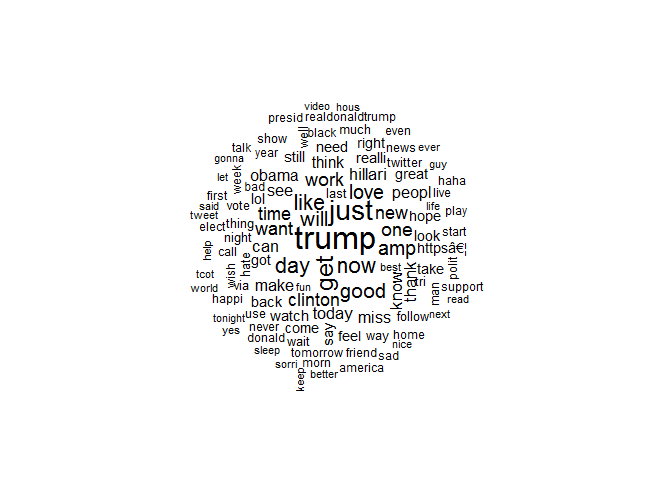
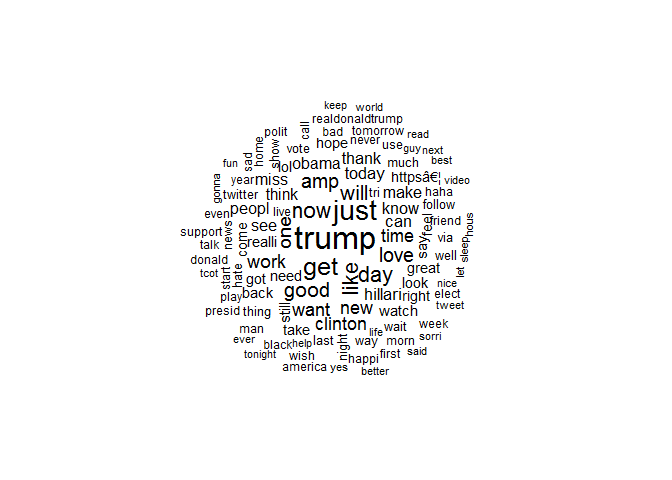
logit regr fixed

Changed region(s): [[0.25, 0.1875, 0.7188, 0.8125]]

diff --git a/russian_trolls.md b/russian_trolls.md
@@ -1,9 +1,11 @@
 Russian Twitter Trolls
 ================
 
-Context As part of the House Intelligence Committee investigation into how Russia may have influenced the 2016 US Election, Twitter released the screen names of almost 3000 Twitter accounts believed to be connected to Russia’s Internet Research Agency, a company known for operating social media troll accounts. Twitter immediately suspended these accounts, deleting their data from Twitter.com and the Twitter API. A team at NBC News including Ben Popken and EJ Fox was able to reconstruct a dataset consisting of a subset of the deleted data for their investigation and were able to show how these troll accounts went on attack during key election moments. This dataset is the body of this open-sourced reconstruction.
+Context
 
-For more background, read the NBC news article publicizing the release: "Twitter deleted 200,000 Russian troll tweets. Read them here."
+As part of the House Intelligence Committee investigation into how Russia may have influenced the 2016 US Election, Twitter released the screen names of almost 3000 Twitter accounts believed to be connected to Russia’s Internet Research Agency, a company known for operating social media troll accounts. Twitter immediately suspended these accounts, deleting their data from Twitter.com and the Twitter API. A team at NBC News including Ben Popken and EJ Fox was able to reconstruct a dataset consisting of a subset of the deleted data for their investigation and were able to show how these troll accounts went on attack during key election moments. This dataset is the body of this open-sourced reconstruction.
+
+For more background, read the NBC news article publicizing the release: "Twitter deleted 200,000 Russian troll tweets. Read them here."[NBC Russian Tweets](https://www.nbcnews.com/tech/social-media/now-available-more-200-000-deleted-russian-troll-tweets-n844731)
 
 Content This dataset contains two CSV files. tweets.csv includes details on individual tweets, while users.csv includes details on individual accounts.
 
@@ -15,7 +17,7 @@ Acknowledgements If you publish using the data, please credit NBC News and inclu
 
 THIS Project
 
-In this Document, the russian troll data set and a sentiment data set that was pre 2014 was used for analysis. The Russian troll accounts were from September 2014 until September 2017. So I found tweets that were produced from April to May 2009. Therefore, camparisons of troll and non-troll data could be made.
+In this mark down, the russian troll data set and a sentiment data set that was pre 2014 was used for analysis. The Russian troll accounts were from September 2014 until September 2017. So I found tweets that were produced from April to May 2009. Therefore, camparisons of troll and non-troll data could be made.
 
 ``` r
 library(ROCR)
@@ -139,7 +141,7 @@ library(effects) # regession models
 #save(nt,file= "savednt.RData")
 ```
 
-Because the CSV files were so large, two Rdata files were created: savedrt.Rdata for the russian trolls and savednt.RData for accounts that are not troll. This helped with a shorter run time and committing to Github.
+Because the CSV files were so large, two Rdata files were created. This helped with a shorter run time and committing to Github.
 
 ``` r
 load("savednt.RData")
@@ -152,28 +154,22 @@ text<- as.character(rt$text)
 colnames(nt)[6]<- as.character(c("text"))
 colnames(nt)[3]<- "created_str"
 
+#extracting columns
+rtext<-select(rt,"text")
+ntext<-select(nt,"text")
+
+
 #adding a column Russian tweets
-rt$r_nr<-"r"
+rtext$r_nr<-"r"
 
 #adding column to non_russian tweets
-nt$r_nr<-"nr"
+ntext$r_nr<-"nr"
 ```
 
 ``` r
-#combining data sets
+#combining data sets, sample function randomizes order of rows
 
-tot_tweets<- full_join(nt,rt)
-```
-
-    ## Joining, by = c("created_str", "text", "r_nr")
-
-    ## Warning: Column `created_str` joining factors with different levels,
-    ## coercing to character vector
-
-    ## Warning: Column `text` joining factors with different levels, coercing to
-    ## character vector
-
-``` r
+tot_tweets<- rbind(ntext,rtext,stringAsfactors=FALSE)
 tot_tweets <- tot_tweets[sample(nrow(tot_tweets)),]
 
 #change character to factor
@@ -186,7 +182,7 @@ print(text_corpus)
 
     ## <<VCorpus>>
     ## Metadata:  corpus specific: 0, document level (indexed): 0
-    ## Content:  documents: 12000
+    ## Content:  documents: 12001
 
 ``` r
 #cleaning tweets 
@@ -212,11 +208,11 @@ We separate the data into a training set and a test set. Then create the labels 
 
 ``` r
 text_dtm_train<- text_dtm[1:10000,]
-text_dtm_test<- text_dtm[10000:12000,]
+text_dtm_test<- text_dtm[10001:12000,]
 
 
 text_train_labels<- tot_tweets[1:10000,]$r_nr
-text_test_labels<- tot_tweets[10000:12000,]$r_nr
+text_test_labels<- tot_tweets[10001:12000,]$r_nr
 ```
 
 We can now create three word clouds. The first wordcloud shows all of the data together. The second cloud show just the russian troll texts. The third is no Russian trolls at all.
@@ -264,7 +260,7 @@ tweet_freq_words <- findFreqTerms(text_dtm_train, 5)
  str(tweet_freq_words)
 ```
 
-    ##  chr [1:2620] "â" "â–¶" "â€¦" "â€˜" "â€“" "â€¢" "â€œi" "â«" "â»" ...
+    ##  chr [1:2611] "â" "â–¶" "â€¦" "â€˜" "â€“" "â€¢" "â€œ" "â«" "â»" "aâ€¦" ...
 
 ``` r
 #create DTM
@@ -304,22 +300,22 @@ tweet_classifier<- naiveBayes(tweet_train,text_train_labels)
     ## |-------------------------|
     ## 
     ##  
-    ## Total Observations in Table:  2001 
+    ## Total Observations in Table:  2000 
     ## 
     ##  
     ##              | actual 
     ##    predicted |         r |        nr | Row Total | 
     ## -------------|-----------|-----------|-----------|
-    ##            r |       903 |        22 |       925 | 
-    ##              |     0.976 |     0.024 |     0.462 | 
-    ##              |     0.899 |     0.022 |           | 
+    ##            r |       890 |        21 |       911 | 
+    ##              |     0.977 |     0.023 |     0.456 | 
+    ##              |     0.900 |     0.021 |           | 
     ## -------------|-----------|-----------|-----------|
-    ##           nr |       102 |       974 |      1076 | 
-    ##              |     0.095 |     0.905 |     0.538 | 
-    ##              |     0.101 |     0.978 |           | 
+    ##           nr |        99 |       990 |      1089 | 
+    ##              |     0.091 |     0.909 |     0.544 | 
+    ##              |     0.100 |     0.979 |           | 
     ## -------------|-----------|-----------|-----------|
-    ## Column Total |      1005 |       996 |      2001 | 
-    ##              |     0.502 |     0.498 |           | 
+    ## Column Total |       989 |      1011 |      2000 | 
+    ##              |     0.494 |     0.505 |           | 
     ## -------------|-----------|-----------|-----------|
     ## 
     ## 
@@ -361,7 +357,7 @@ print(auc)
     ## 
     ## Slot "y.values":
     ## [[1]]
-    ## [1] 0.9815231
+    ## [1] 0.983643
     ## 
     ## 
     ## Slot "alpha.values":
@@ -388,10 +384,10 @@ tweetsSparse$r_nr<-tot_tweets$r_nr
 #split the data set
 set.seed(200)
 
-split<- sample.split(tweetsSparse$r_nr,SplitRatio=0.7)
+split<- sample.split(tweetsSparse,SplitRatio=2/3)
 
-trainSparse<- subset(tweetsSparse, split=TRUE)#in split 
-testSparse<- subset(tweetsSparse, split=FALSE)#not in split
+trainSparse<- subset(tweetsSparse, split=="TRUE")#in split 
+testSparse<- subset(tweetsSparse, split=="FALSE")#not in split
 
 tweet.logit <- glm(r_nr ~ ., data = trainSparse, family = "binomial")
 ```
@@ -402,15 +398,27 @@ tweet.logit <- glm(r_nr ~ ., data = trainSparse, family = "binomial")
 tweet.logit.test<-predict(tweet.logit,type = "response", newdata = testSparse)
 
 
-cmatrix_logregr<-table(testSparse$r_nr, tweet.logit.test<0.5)
+cmatrix_logregr<-table(testSparse$r_nr, tweet.logit.test>0.5)
 
 cmatrix_logregr
 ```
 
     ##     
     ##      FALSE TRUE
-    ##   r   1030 4970
-    ##   nr  5939   61
+    ##   r   1695  332
+    ##   nr    22 2037
+
+``` r
+tweet.logit.test1<-predict(tweet.logit, type = "response", newdata = trainSparse)
+cmatrix1 <-table(trainSparse$r_nr,tweet.logit.test1>0.5)
+
+cmatrix1
+```
+
+    ##     
+    ##      FALSE TRUE
+    ##   r   3268  705
+    ##   nr    38 3903
 
 ``` r
 #Descision tree
